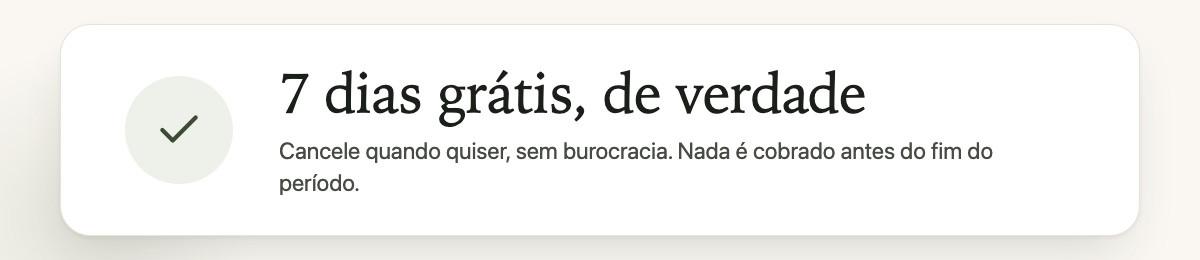
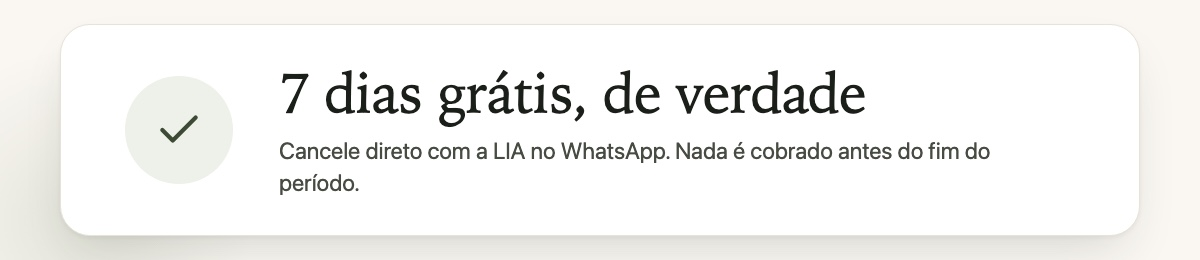
copy(lia): cancelamento direto com a LIA no WhatsApp, sem formulario
Fecha o circulo do 'sem burocracia' que ja guiava a copy de garantia/trial:
nada de portal separado ou central de atendimento, o cancelamento acontece
na mesma conversa. Atualizado em 5 lugares:
- nota do plano mensal na LP
- FAQ 'e se eu nao quiser continuar'
- billing-note (texto dinamico perto do preco)
- pagina de obrigado (tela final)
- banner de rodape do checkout

Documentada a dependencia de backend que essa promessa cria (secao nova
em docs/lia-acoes-por-evento-ticto.md): a LIA precisa reconhecer intencao
de cancelamento, confirmar antes de executar, e de fato cancelar na
assinatura Ticto - verificar se existe API de cancelamento programatico
(distinta do webhook, que so informa eventos). Mesmo padrao do aviso
'te avisamos antes' que ja tinha sido cortado por nao ter lastro:
nao divulgar tráfego pago com essa copy antes de validar ponta a ponta.

Changed region(s): [[0.3083, 0.5231, 0.8325, 0.6154]]

diff --git a/public/lia.html b/public/lia.html
@@ -62,7 +62,7 @@ var CONFIG = {
 
   PRICING: {
     monthly: { label: "Mensal",  price: "R$ 49,90", period: "/mês",
-               note: "Menos de R$ 1,70 por dia. Cancele quando quiser.",
+               note: "Menos de R$ 1,70 por dia. Cancele direto com a LIA, no WhatsApp.",
                checkout: "https://payment.ticto.app/OAC407884" },
     annual:  { label: "Anual",   price: "R$ 29,90", period: "/mês",
                note: "R$ 358,80 uma vez por ano · menos de R$ 1 por dia", badge: "economize 40%",
@@ -942,7 +942,7 @@ h1.rv.in,h2.rv.in,.letter blockquote.rv.in{filter:blur(0);transition:opacity .8s
       <details><summary>Ela lembra do que eu conto?</summary>
         <p>Sim. É justamente isso que a diferencia: ela guarda seu contexto ao longo do tempo e usa o histórico para reconhecer o que se repete.</p></details>
       <details><summary>E se eu não quiser continuar?</summary>
-        <p>Nos 7 primeiros dias você cancela e nada é cobrado. Não precisa explicar o motivo pra ninguém. Depois disso, dá pra cancelar quando quiser, sem multa.</p></details>
+        <p>É só falar com a LIA no WhatsApp e pedir pra cancelar. Sem formulário, sem central de atendimento, sem precisar explicar o motivo. Nos 7 primeiros dias, cancelar assim significa que nada é cobrado.</p></details>
       <details><summary>E se eu precisar de uma profissional?</summary>
         <p>Quando uma situação pede avaliação profissional, a LIA encaminha para a equipe da Table.</p></details>
     </div>
@@ -1020,7 +1020,7 @@ h1.rv.in,h2.rv.in,.letter blockquote.rv.in{filter:blur(0);transition:opacity .8s
     // operação. Melhor ser explícito sobre a renovação automática do que
     // prometer um lembrete que ninguém vai mandar.
     'billing-note' : 'Hoje você paga R$ 0. Passados os ' + dias + ' dias, a cobrança do plano '
-                   + 'que você escolher acontece automaticamente. Cancele até lá e nada é cobrado.',
+                   + 'que você escolher acontece automaticamente. Cancele até lá, direto com a LIA no WhatsApp, e nada é cobrado.',
     'step-1'       : 'Você assina em um minuto. ' + CONFIG.PAYMENT_METHODS + '.',
     'g-headline'   : dias + ' dias grátis, de verdade',
     'proof-number' : CONFIG.SOCIAL.number,

diff --git a/public/obrigado-lia.html b/public/obrigado-lia.html
@@ -278,7 +278,7 @@ footer a{color:var(--ink-2)}
   </div>
 
   <p class="tiny" style="margin-top:24px">
-    Seus <span id="gDays">7</span> dias começam agora e são gratuitos. Depois disso a assinatura segue automaticamente, e você pode cancelar a qualquer momento antes.
+    Seus <span id="gDays">7</span> dias começam agora e são gratuitos. Depois disso a assinatura segue automaticamente — mas se quiser cancelar antes, é só pedir aqui mesmo, direto com a LIA.
   </p>
   <p class="tiny" style="margin-top:10px">Alguma coisa errada? <a href="#" id="support" style="text-decoration:underline">Fala com a equipe da Table</a>.</p>
 </section>

diff --git a/scripts/gen_lia_checkout_footer.html b/scripts/gen_lia_checkout_footer.html
@@ -27,7 +27,7 @@ body::before{content:"";position:absolute;inset:auto auto -140px -100px;width:36
     </div>
     <div class="txt">
       <div class="days">7 dias grátis, de verdade</div>
-      <div class="sub">Cancele quando quiser, sem burocracia. Nada é cobrado antes do fim do período.</div>
+      <div class="sub">Cancele direto com a LIA no WhatsApp. Nada é cobrado antes do fim do período.</div>
     </div>
   </div>
 </body></html>

diff --git a/docs/lia-acoes-por-evento-ticto.md b/docs/lia-acoes-por-evento-ticto.md
@@ -39,6 +39,34 @@ compra de teste revela os nomes verdadeiros. Não inventar strings antes disso.
 | **Pix Gerado / Aguardando Pagamento / Pix Expirado** | Gerou e não pagou. Lembrete com o código; no expirado, link novo. |
 | **[Afiliação] Aprovada** | Sem ação enquanto não houver programa de afiliados. |
 
+## Cancelamento pela própria LIA (dependência de backend)
+
+A LP e a página de obrigado agora prometem: **"cancele direto com a LIA, no
+WhatsApp"** — sem formulário, sem portal separado. Isso reduz fricção a quase
+zero, mas cria uma dependência que precisa existir ANTES de divulgar essa
+promessa, senão vira o mesmo problema que já corrigimos com o "te avisamos
+antes": promessa na página sem lastro no backend.
+
+O que precisa existir no backend da LIA:
+
+1. **A LIA reconhecer intenção de cancelamento na conversa** (não precisa ser
+   perfeito — um gatilho por palavra-chave/intenção básica resolve o essencial).
+2. **Confirmar antes de executar.** Uma pergunta de confirmação evita
+   cancelamento acidental por mensagem ambígua — mas só uma, sem tentar reter.
+3. **Executar de fato na assinatura da Ticto.** Verificar se a Ticto expõe API
+   para cancelar assinatura programaticamente (distinto do webhook, que só
+   informa eventos — aqui precisamos do sentido contrário: LIA → Ticto).
+   Se não existir API direta, o caminho é a equipe humana ser notificada e
+   cancelar manualmente em minutos — mas nesse caso a copy não pode prometer
+   "cancele direto com a LIA" como se fosse instantâneo e 100% automático.
+4. **Confirmar pra ela que cancelou**, com data até quando o acesso continua
+   ativo (se cancelar dentro do trial, deixar claro que não vai ser cobrada).
+5. **Dispara o evento `subscription_canceled`** no fluxo já documentado acima,
+   incluindo a régua de feedback (24-48h depois, ver seção seguinte).
+
+**Antes de rodar tráfego pago com essa copy no ar**, confirmar que os passos
+1-3 funcionam de ponta a ponta. Testar cancelando uma assinatura de teste real.
+
 ## Feedback de cancelamento
 
 O erro fácil aqui é perguntar "por que você cancelou?". Nesse público essa
